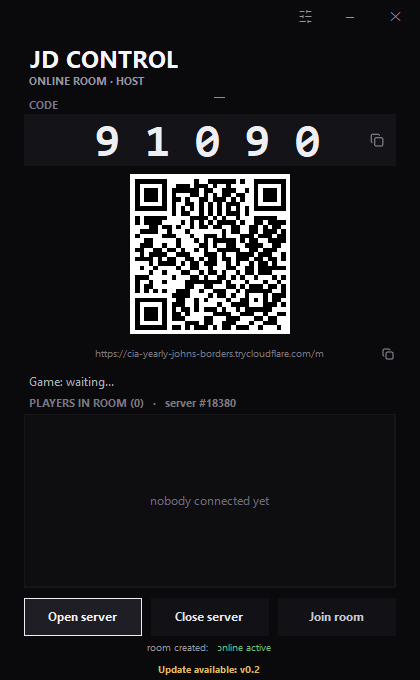
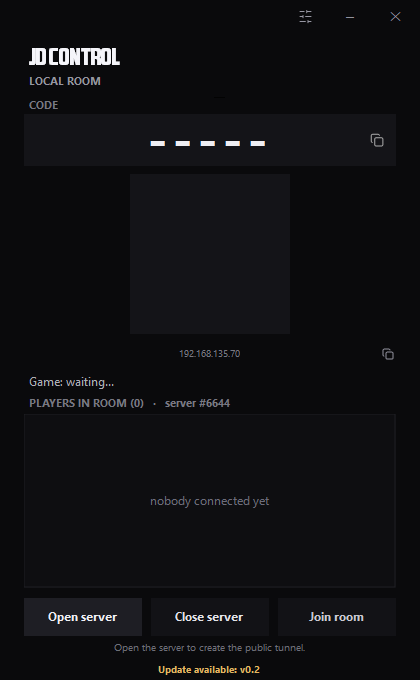
README and screenshots in English, simpler requirements
Rewrites the guide in English and replaces the captures with the panel in
English plus the new phone shots. The game address is no longer a requirement:
JD CONTROL finds the running game on its own.

diff --git a/README.md b/README.md
@@ -4,147 +4,149 @@
   <a href="https://github.com/nxx-sudo/JD-Control/releases"><img alt="version" src="https://img.shields.io/badge/version-0.1%20BETA-blue"></a>
   <a href="LICENSE"><img alt="license" src="https://img.shields.io/badge/license-GPL--3.0-blue"></a>
   <a href="https://github.com/nxx-sudo/JD-Control/releases"><img alt="downloads" src="https://img.shields.io/github/downloads/nxx-sudo/JD-Control/total"></a>
-  <a href="https://discord.gg/TU-INVITACION"><img alt="discord" src="https://img.shields.io/badge/discord-unirse-5865F2"></a>
+  <a href="https://discord.gg/TU-INVITACION"><img alt="discord" src="https://img.shields.io/badge/discord-join-5865F2"></a>
 </p>
 
 <p align="center">
-  Controlador con el móvil para <b>Just Dance Legacy</b> en PC: sala local, multijugador entre PCs y túnel público para jugar desde cualquier red.
+  Phone controller for <b>Just Dance Legacy</b> on PC: local room, multiplayer across PCs and a public tunnel to play from any network.
 </p>
 
 ---
 
-## Qué es
+## What it is
 
-JD CONTROL es un mod de escritorio que abre una **sala local** en tu PC y conecta los móviles como mandos (flechas, OK, pausa y acelerómetro para puntuar). No modifica el juego: habla con él por la interfaz que ya expone `Legacy.exe`.
+JD CONTROL is a desktop mod that opens a **local room** on your PC and turns phones into controllers (arrows, OK, pause and the accelerometer for scoring). It does not patch the game: it talks to it through the interface `Legacy.exe` already exposes.
 
-- **Varios móviles** a la vez, cada uno con su jugador.
-- **Sala entre PCs**: un PC abre la sala y los demás se unen con el código.
-- **Cualquier red**: un túnel `cloudflared` publica tu PC en HTTPS, así el móvil conecta desde datos móviles sin abrir puertos.
-- **3 idiomas**: English, Español y Portuguese (Brasil).
+- **Several phones** at once, each one with its own player.
+- **Room across PCs**: one PC hosts the room and the others join with the code.
+- **Any network**: a `cloudflared` tunnel publishes your PC over HTTPS, so a phone on mobile data connects without opening ports.
+- **3 languages**: English, Español and Portuguese (Brazil).
 
-## Capturas
+## Screenshots
 
-| Sala cerrada | Sala creada (online activo) |
+| Room closed | Room created (online active) |
 | :--: | :--: |
-| <img src="docs/panel-cerrado.png" width="320"> | <img src="docs/panel-sala.png" width="320"> |
+| <img src="docs/panel-closed.png" width="320"> | <img src="docs/panel-room.png" width="320"> |
 
-| Unirse a una sala desde el PC | Ajustes |
+| Joining a room from the PC | Settings |
 | :--: | :--: |
-| <img src="docs/panel-unirse.png" width="320"> | <img src="docs/panel-ajustes.png" width="320"> |
+| <img src="docs/panel-join.png" width="320"> | <img src="docs/panel-settings.png" width="320"> |
 
-| Móvil: código | Móvil: listo para jugar |
+| Phone: code | Phone: ready to play |
 | :--: | :--: |
-| <img src="docs/movil-conectar.png" width="240"> | <img src="docs/movil-listo.png" width="240"> |
+| <img src="docs/mobile-code.png" width="240"> | <img src="docs/mobile-ready.png" width="240"> |
 
-## Cómo funciona
+## How it works
 
 ```
-  Móvil (navegador)                PC con JD CONTROL                  Juego
-  ─────────────────                ───────────────────                ─────
-  /m  ─── HTTPS/WSS ───►  server.js  ── HTTP 127.0.0.1:8080 ──►  Legacy.exe
+  Phone (browser)               PC running JD CONTROL              Game
+  ───────────────               ─────────────────────              ────
+  /m  ─── HTTPS/WSS ───►  server.js  ─── local HTTP ───►  Legacy.exe
                                 │
-                                ├── panel .NET (JD CONTROL.exe): QR, código, jugadores
-                                ├── sala online (/ws/online): otros PCs con JD CONTROL
-                                └── túnel cloudflared: URL pública https://…trycloudflare.com
+                                ├── .NET panel (JD CONTROL.exe): QR, code, players
+                                ├── online room (/ws/online): other PCs with JD CONTROL
+                                └── cloudflared tunnel: public URL https://…trycloudflare.com
 ```
 
-1. `JD CONTROL.exe` arranca `server.js` (Node) si no está corriendo.
-2. El servidor crea el certificado local, sirve la web del móvil (`/m`) y abre el túnel público.
-3. El panel muestra el **código de 5 dígitos** y el **QR** con el enlace ya listo.
-4. El móvil entra, escribe el código, activa los sensores y manda las pulsaciones al servidor; el servidor las reenvía al juego.
+1. `JD CONTROL.exe` starts `server.js` (Node) if it is not running yet.
+2. The server creates the local certificate, serves the phone page (`/m`) and opens the public tunnel.
+3. The panel shows the **5-digit code** and the **QR** with the link, already pointing at the room.
+4. The phone opens the link, types the code, enables the sensors and sends the presses to the server; the server forwards them to the game.
 
-Todo el estado (jugador, canción, fase, puntuación) vive en el PC: el móvil solo es un mando.
+All the state (player, song, phase, score) lives on the PC: the phone is only a controller.
 
-## Requisitos
+## Requirements
 
 - Windows 10/11.
-- **Just Dance Legacy** (PC) con el servidor HTTP del juego en `127.0.0.1:8080`.
-- Para usar el paquete ya compilado no hace falta nada más (lleva Node portable).
-- Para compilar desde el código: .NET Framework 4.x (`csc.exe`) y Node.js 18+.
+- **Just Dance Legacy** installed on the PC.
 
-## Instalación
+That is all: JD CONTROL finds the running game on its own and connects to it, so you never type an address or a port. The zip also ships Node portable, so you do not need to install anything else.
 
-1. Descarga el zip de [Releases](https://github.com/nxx-sudo/JD-Control/releases) y descomprímelo **completo** (el `.exe` solo es la ventana; el servidor va en la carpeta).
-2. Abre `JD CONTROL.exe` desde esa carpeta.
-3. La primera vez descarga `cloudflared.exe` si falta (el túnel lo necesita).
+To build from source you do need .NET Framework 4.x (`csc.exe`) and Node.js 18+.
 
-## Uso
+## Install
 
-### 1. Abrir la sala
+1. Download the zip from [Releases](https://github.com/nxx-sudo/JD-Control/releases) and extract it **whole** (the `.exe` is only the window; the server lives in the folder).
+2. Run `JD CONTROL.exe` from that folder.
+3. The first time it downloads `cloudflared.exe` if it is missing (the tunnel needs it).
 
-<img src="docs/panel-cerrado.png" width="320">
+## Usage
 
-Pulsa **Abrir servidor**. El panel pasa a `sala creada: online activo` (en verde) y muestra el código y el QR.
+### 1. Open the room
 
-### 2. Conectar tu móvil
+<img src="docs/panel-closed.png" width="320">
 
-<img src="docs/movil-conectar.png" width="240">
+Press **Open server**. The panel switches to `room created: online active` (in green) and shows the code and the QR.
 
-Escanea el QR con la cámara del móvil o abre el enlace. Escribe el código de 5 dígitos, pulsa **CONECTAR** y luego **ACTIVAR SENSORES** (el acelerómetro solo funciona en HTTPS, y el enlace del túnel ya lo es).
+### 2. Connect your phone
 
-### 3. Varios móviles
+<img src="docs/mobile-code.png" width="240">
 
-El mismo QR sirve para todos: cada móvil que entra ocupa un jugador. Aparecerán en **JUGADORES EN SALA** con su estado (`En el menú`, `Bailando`, …).
+Scan the QR with the phone camera or open the link. Type the 5-digit code, press **CONECTAR** and then **ACTIVAR SENSORES** (the phone page is in Spanish for now). The accelerometer only works over HTTPS, and the tunnel link already is.
 
-### 4. Cerrar la sala
+### 3. Several phones
 
-Pulsa **Cerrar servidor**: se cierra la sala, se apaga el túnel y los móviles se desconectan. El panel vuelve a `SALA LOCAL`.
+The same QR works for everyone: each phone that joins takes one player. They show up under **PLAYERS IN ROOM** with their state (`In the game`, `Dancing`, …).
 
-### 5. Unirse a una sala desde otro PC
+### 4. Close the room
 
-<img src="docs/panel-unirse.png" width="320">
+Press **Close server**: the room closes, the tunnel stops and the phones disconnect. The panel goes back to `LOCAL ROOM`.
 
-En el otro PC: **Unirse a sala** → escribe la IP del anfitrión (`192.168.1.20`) **o** su URL de túnel (`https://algo.trycloudflare.com`) y el código.
+### 5. Join a room from another PC
 
-- Misma red: vale la IP, o nada (se busca la sala por código).
-- Otra red: pega la URL del túnel; puedes pegar el enlace completo del QR, se queda con el dominio.
+<img src="docs/panel-join.png" width="320">
 
-Cada PC sigue usando su propio `Legacy.exe` y sus propios móviles; la sala sincroniza canción y fase.
+On the other PC: **Join room** → type the host IP (`192.168.1.20`) **or** its tunnel URL (`https://something.trycloudflare.com`) and the code.
 
-### 6. Jugar desde otra red
+- Same network: the IP is enough, or leave it empty (the room is found by code).
+- Another network: paste the tunnel URL; you can paste the full QR link, only the domain is kept.
 
-El túnel se abre junto con la sala. La URL `https://…trycloudflare.com` cambia en cada arranque: usa siempre el QR del panel.
+Each PC keeps using its own `Legacy.exe` and its own phones; the room syncs the song and the phase.
 
-## Configuración
+### 6. Play from another network
 
-<img src="docs/panel-ajustes.png" width="320">
+The tunnel opens together with the room. The `https://…trycloudflare.com` URL changes on every start: always use the QR on the panel.
 
-El botón de ajustes (icono de sliders, arriba a la derecha) abre:
+## Settings
 
-- **Idioma**: English, Español, Portuguese (Brasil). Se detecta el idioma de Windows; si no es español ni portugués, arranca en inglés.
-- **Mostrar actualizaciones disponibles**: consulta las *releases* de este repositorio al abrir el panel y avisa abajo si hay una versión nueva.
+<img src="docs/panel-settings.png" width="320">
+
+The settings button (sliders icon, top right) opens:
+
+- **Language**: English, Español, Portuguese (Brazil). It detects the Windows language; anything other than Spanish or Portuguese starts in English.
+- **Show available updates**: checks the releases of this repository when the panel opens and warns at the bottom if there is a newer version.
 
 <img src="docs/panel-update.png" width="320">
 
-Si hay versión nueva, el aviso aparece bajo los botones y abre la página de descarga al pulsarlo. Con la misma versión publicada no se muestra nada.
+If there is a newer version, the notice appears under the buttons and opens the download page when clicked. With the same version published nothing is shown.
 
-Se guarda en `settings.json`, junto al ejecutable.
+It is stored in `settings.json`, next to the executable.
 
-## Compilar
+## Build
 
 ```bat
 build.bat
 ```
 
-Genera `JD CONTROL.exe` con `csc.exe`. Para la carpeta distribuible (con Node portable, dependencias y zip):
+Produces `JD CONTROL.exe` with `csc.exe`. For the distributable folder (with portable Node, dependencies and zip):
 
 ```bat
 package.bat
 ```
 
-## Estructura
+## Structure
 
 ```
-app/                 panel nativo en C# (MainForm.cs, Lang.cs, AssemblyInfo.cs)
-server.js            servidor: web del móvil, sala online y túnel
-src/                 puente con el juego (gamephone.js) y túnel remoto
-public/              web que carga el móvil (mobile.html, mobile.js, fuentes)
-build.bat compila el exe
-package.bat       genera dist/ listo para compartir
+app/                 native C# panel (MainForm.cs, Lang.cs, AssemblyInfo.cs)
+server.js            server: phone page, online room and tunnel
+src/                 bridge to the game (gamephone.js) and remote tunnel
+public/              page the phone loads (mobile.html, mobile.js, fonts)
+build.bat            compiles the exe
+package.bat          builds dist/ ready to share
 ```
 
-## Licencia
+## License
 
-[GNU GPL v3](LICENSE). Puedes usarlo, modificarlo y redistribuirlo manteniendo el código abierto.
+[GNU GPL v3](LICENSE). You can use, modify and redistribute it as long as it stays open source.
 
-> El enlace de Discord es un marcador: cámbialo por el de tu servidor.
+> The Discord badge is a placeholder: replace it with your own server invite.
